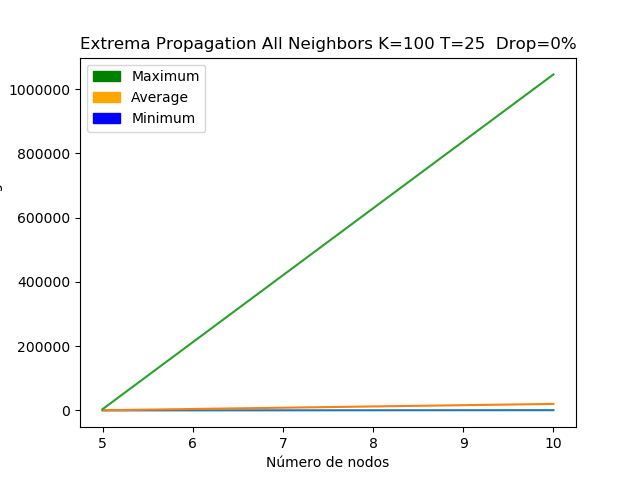
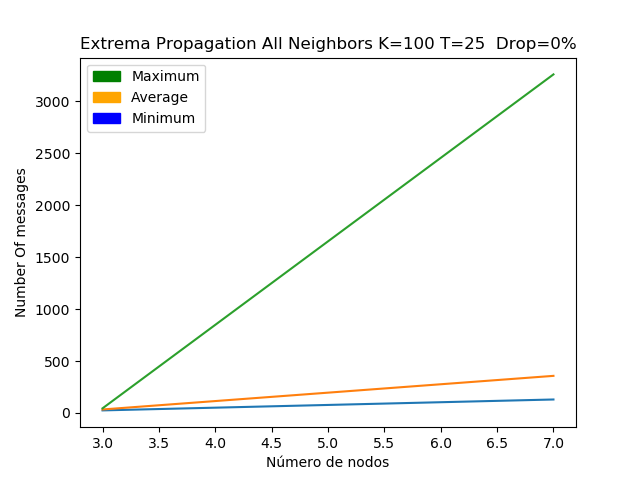
more fixes

diff --git a/runSimulatorsAnalyses.py b/runSimulatorsAnalyses.py
@@ -5,8 +5,8 @@ import ExtremaTimeoutNoWaitChange as ExtAllNeighNoWaitChange
 import Simulator_Statistics as Analyzer
 
 analyser = Analyzer.Simulator_Analyzer()
-range_n = [5, 10]  # range(10, 201, 20)
-range_K = [5, 10]  # [2, 4, 8, 16, 32, 64, 128, 256, 512, 1024, 2048]
+range_n = [3, 7]  # range(10, 201, 20)
+range_K = [3, 7]  # [2, 4, 8, 16, 32, 64, 128, 256, 512, 1024, 2048]
 n_iters = 3  # 10
 kwargs = []
 
@@ -14,7 +14,7 @@ def analize_n():
     print("Analysing variable N")
     kwargs = []
     for n in range_n:
-        args = (n, 128, 25)
+        args = (n, 128, 5)
         kwarg = {"max_dist": 20, "drop_chance": 0.0}
         kwargs.append((args, kwarg))
 
@@ -33,8 +33,8 @@ def analyse_K():
     print("Analysing variable K")
     kwargs = []
     for k in range_K:
-        args = (100, k, 25)
-        kwarg = {"max_dist": 20}
+        args = (5, k, 25)
+        kwarg = {"max_dist": 20, "drop_chance": 0.0}
         kwargs.append((args, kwarg))
 
     #No TArgs

diff --git a/ExtremaAllNeighboursSingle.py b/ExtremaAllNeighboursSingle.py
@@ -21,6 +21,7 @@ class ExtremaNodeQuery(discrete_event_simulator.Node):
         self.converged = False
         self.debug = False
         self.answer = answer
+        self.nonews = 0
         
     def start(self):
         self.no_news = 0
@@ -128,6 +129,7 @@ class ExtremaNode(discrete_event_simulator.Node):
         self.converged = False
         self.debug = False
         self.answer = answer
+        self.nonews = 0
         
     def start(self):
         self.x = []
